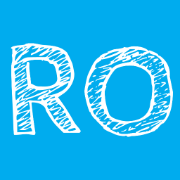
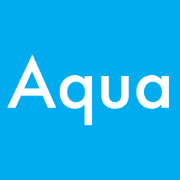
initial commit

Changed region(s): [[0.0278, 0.2222, 0.9722, 0.7778]]

diff --git a/site/layouts/partials/head.html b/site/layouts/partials/head.html
@@ -1,6 +1,6 @@
 <head>
 
-  <title>RO Water Solution </title>
+  <title>Aqua Template | Professional Water Treatment Template </title>
 
   {{ $stylesheet := .Site.Data.webpack.main }}
   {{ with $stylesheet.css }}
@@ -24,7 +24,7 @@
 
 	<!-- Open Graph -->
 	<meta property="og:type" content="website">
-	<meta property="og:title" content="RO Water Solution">
+	<meta property="og:title" content="Aquaflow Investment  ">
 	<meta property="og:description" content=" Providing solutions - water treatment, waste water treatment & recycle, zero liquid discharge...">
 	<meta property="og:url" content="https://www.aquatemplate.com">
 	<meta property="og:image" content="/img/og-image.png">

diff --git a/site/content/_index.md b/site/content/_index.md
@@ -3,11 +3,11 @@ title: "A Water Treatment Company"
 subtitle: Removing pollutants from waste water
 image: /img/home-jumbotron.jpg
 blurb:
-    heading: Why RO Water Solution?
-    text: "RO Water Solution is a Water Treatment Company who bring you total environment solutions - water treatment, waste water treatment & recycle, zero liquid discharge. Specialists in water and environment management."
+    heading: Why Aqua?
+    text: "Aqua is a Water Treatment Company who bring you total environment solutions - water treatment, waste water treatment & recycle, zero liquid discharge. Specialists in water and environment management."
 intro:
     heading: "What we offer"
-    text: "We provide solutions across industry, homes and communities such as RO Water Treatment, Commercial Reverse Osmosis Water Treatment, Sewage Water Treatment, Water ATM, Mobile Water ATM, Waste Water Treatment, packaged Drinking Water and Water Treatment Equipments."
+    text: "We provide solutions across industry, homes and communities. Integrating extensive process technologies, design, engineering and project management capability, we offer total solutions with single source responsibility."
 products:
     - image: img/prod1.jpg
       text: "Pretreatment, process water/liquid treatment, waste water treatment, water recycle and product recovery using various physico-chemical processes for settling, clarification and filtration."

diff --git a/site/content/post/welcome-to-aquaflow-investment.md b/site/content/post/welcome-to-aquaflow-investment.md
@@ -1,5 +1,5 @@
 ---
-title: Welcome to RO Water Solution
+title: Welcome to Aquaflow Investment
 date: 2019-10-24T13:15:16.900Z
 description: >-
   Aquaflow Investment is a Water Treatment Company who bring you total
